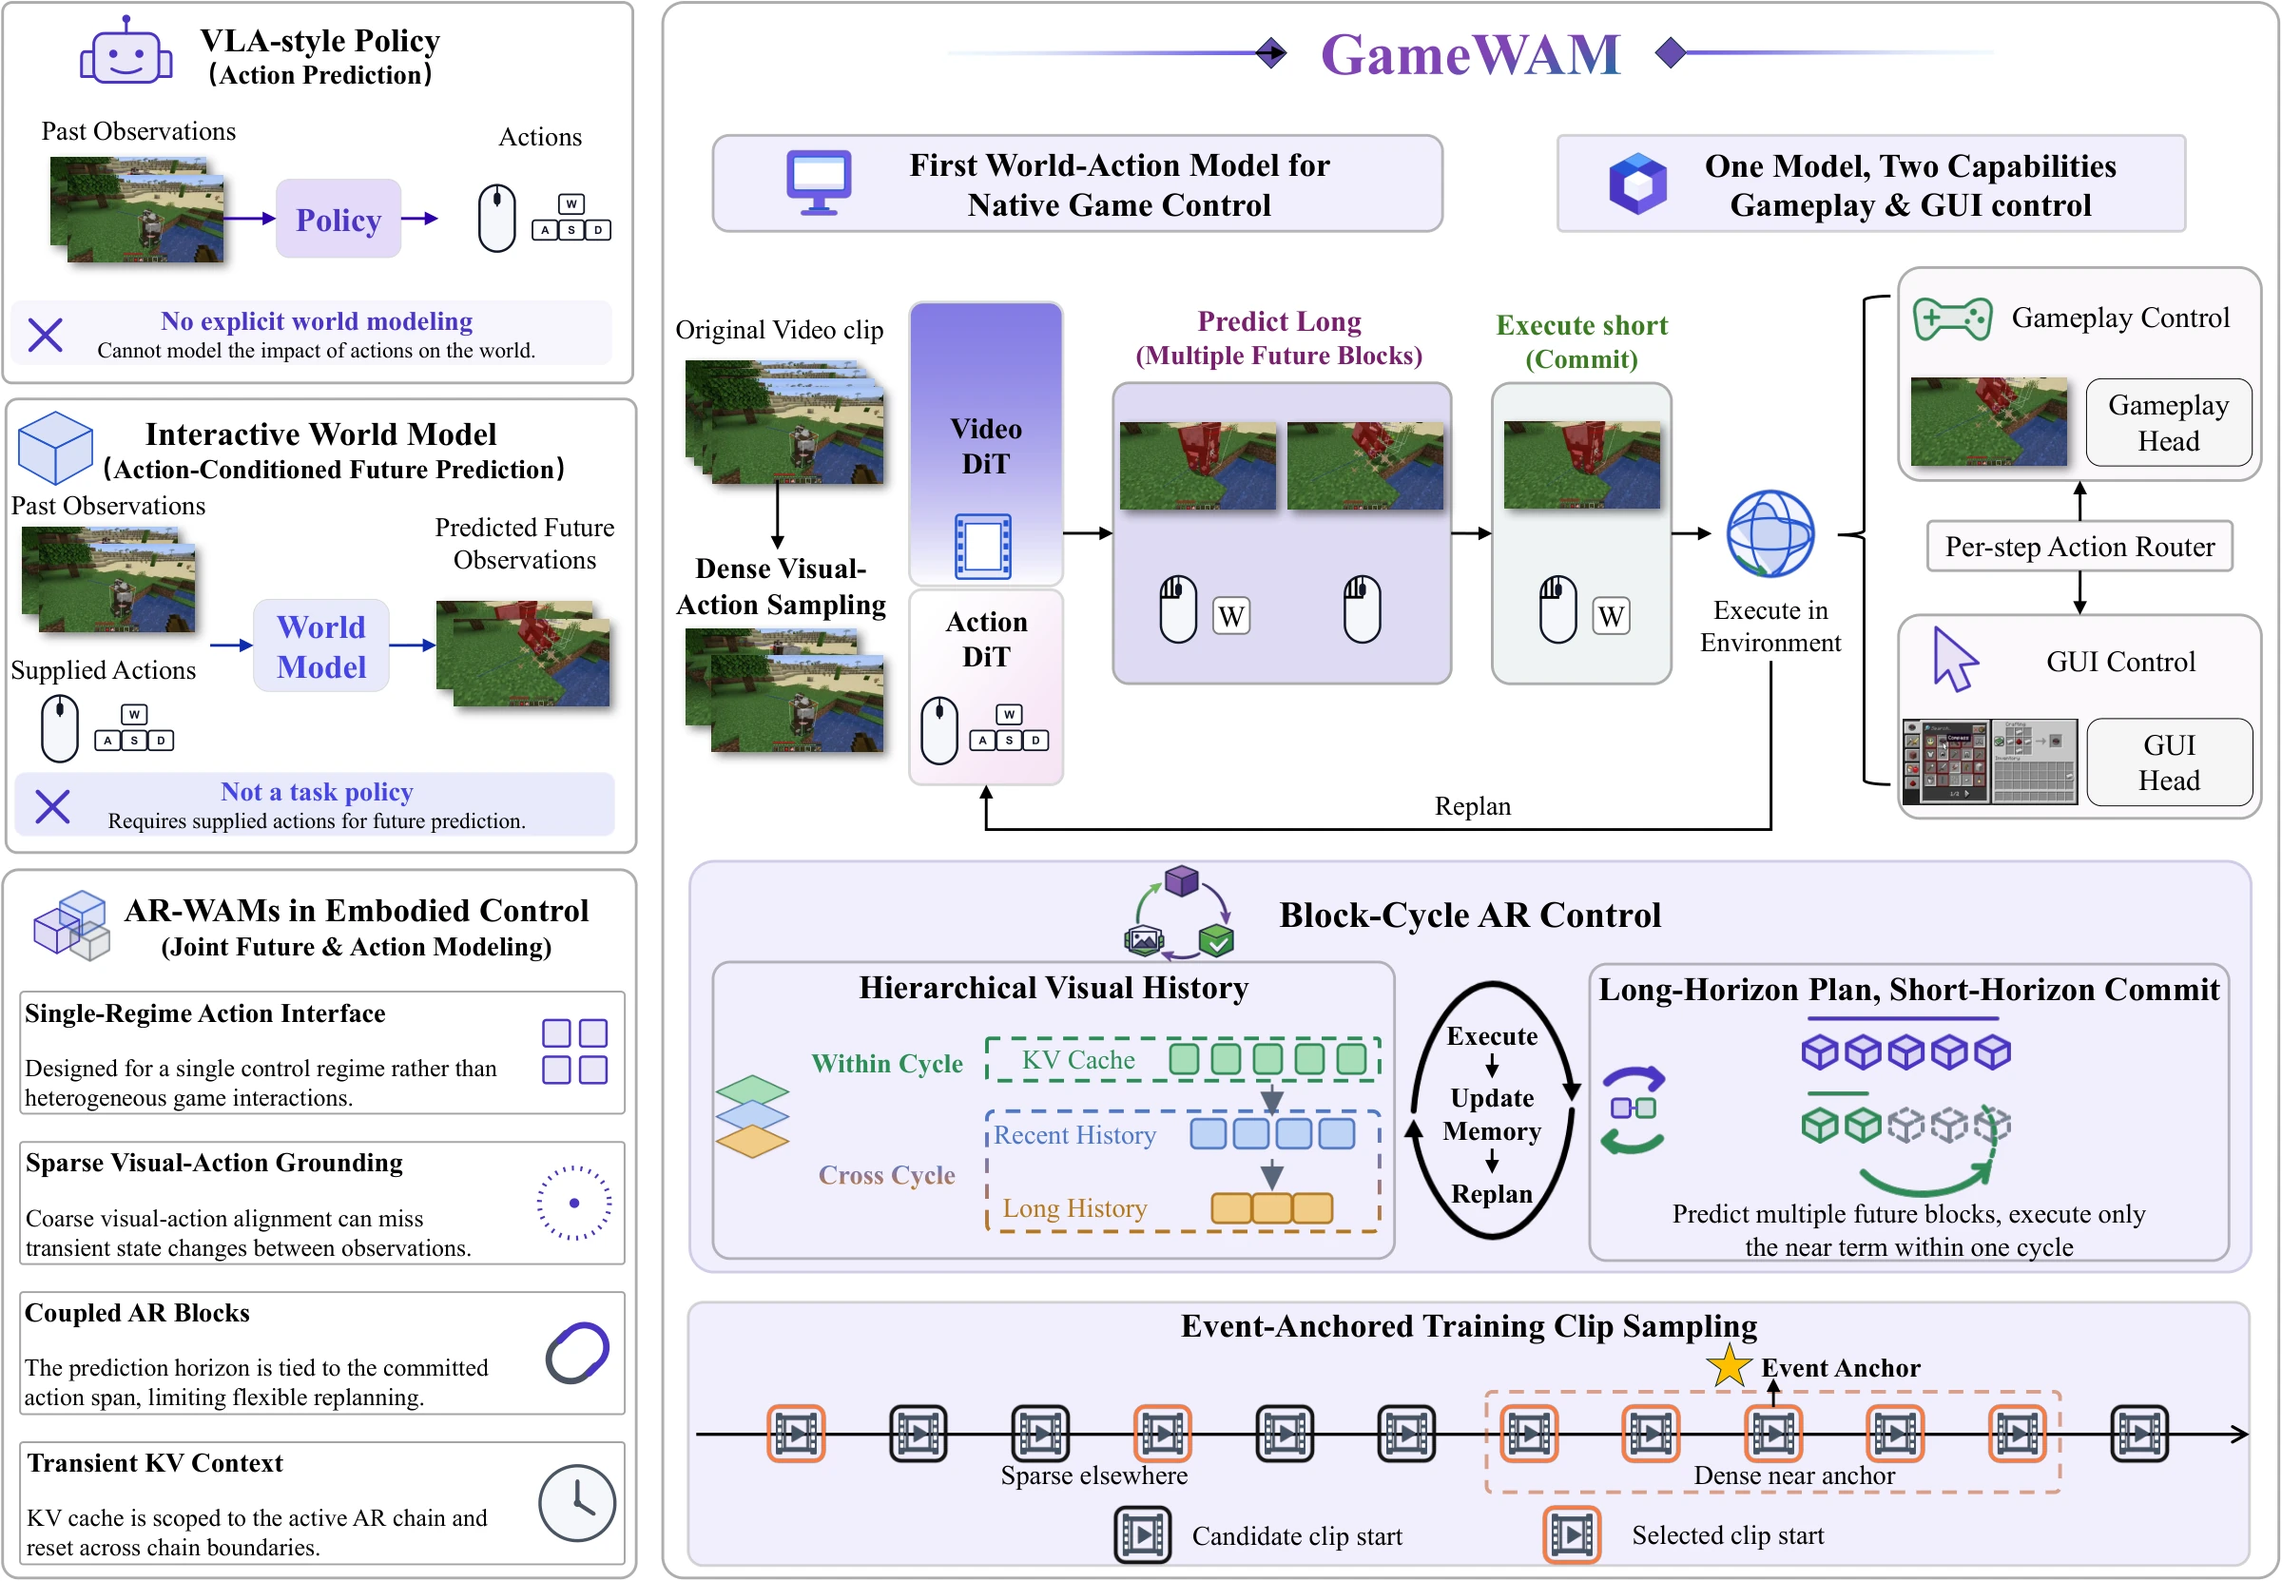
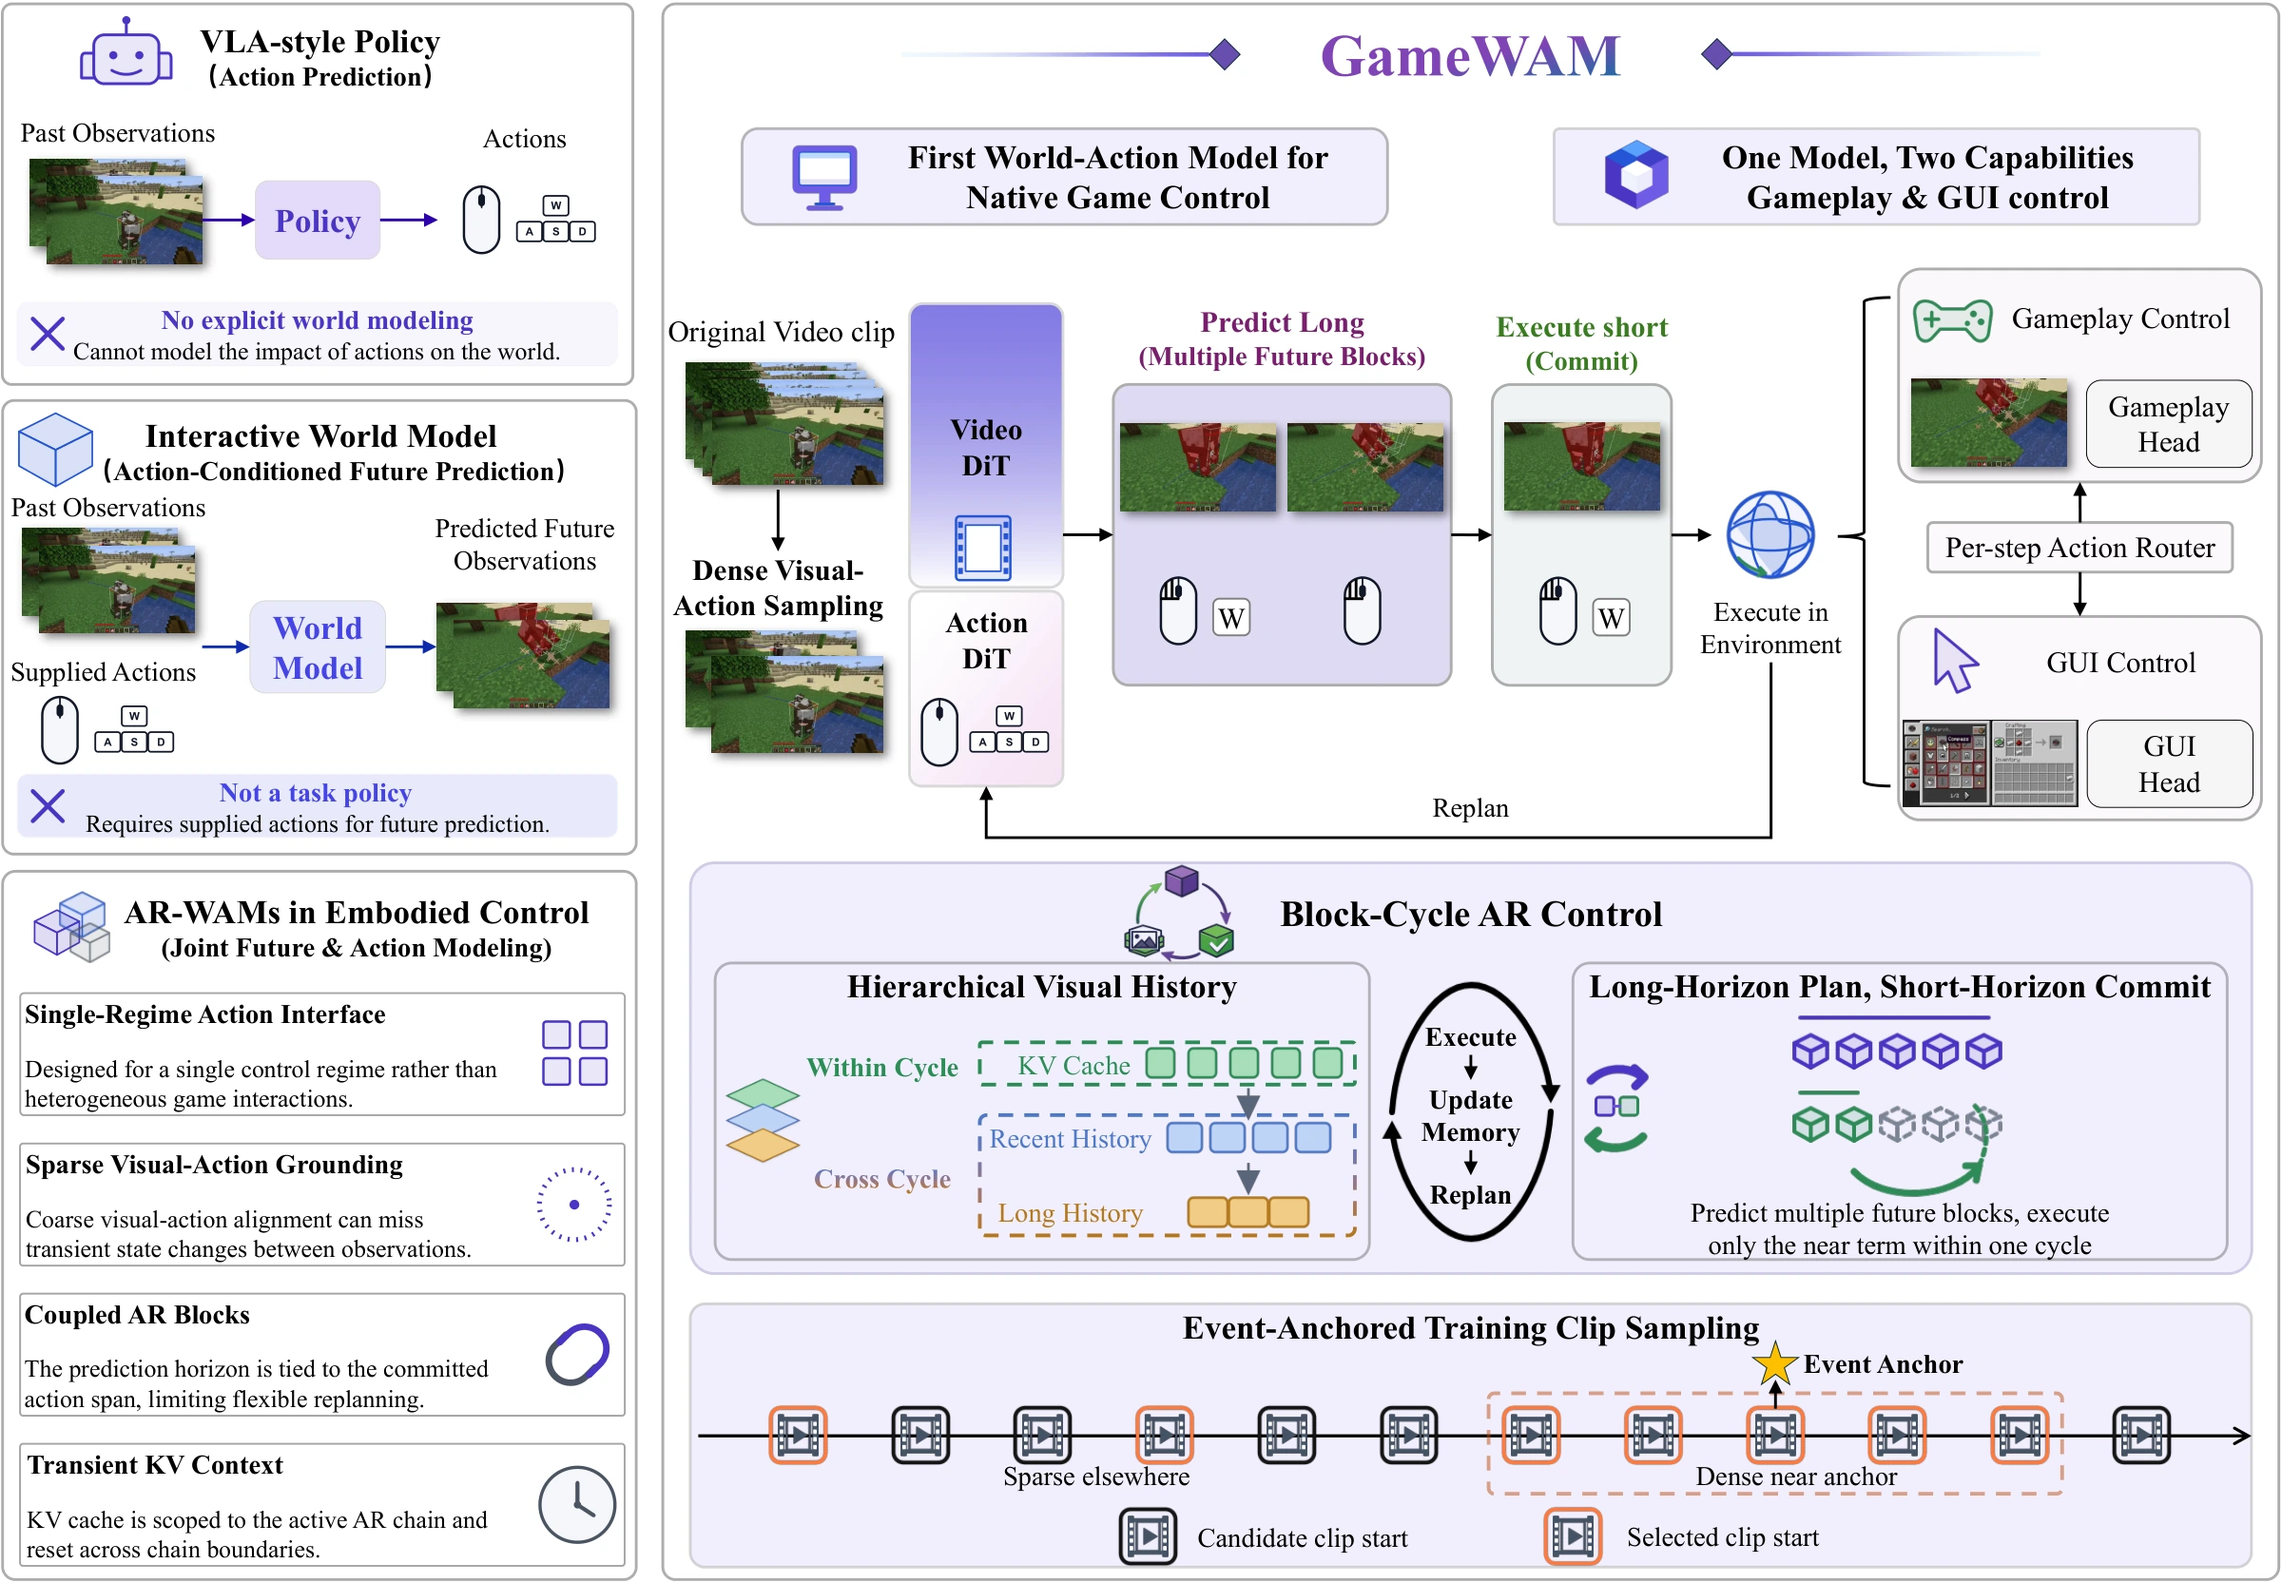
Update GameWAM overview figure

diff --git a/index.html b/index.html
@@ -90,7 +90,7 @@
         </div>
 
         <figure class="overview-figure">
-          <img src="./assets/images/gamewam-overview.webp" width="2400" height="1663" alt="Overview of GameWAM's joint world–action training, action-only online inference, block-cycle control, and evaluation on gameplay and GUI tasks.">
+          <img src="./assets/images/gamewam-overview.webp" width="2400" height="1665" alt="Overview of GameWAM's joint world–action training, action-only online inference, block-cycle control, and evaluation on gameplay and GUI tasks.">
         </figure>
       </div>
     </section>
